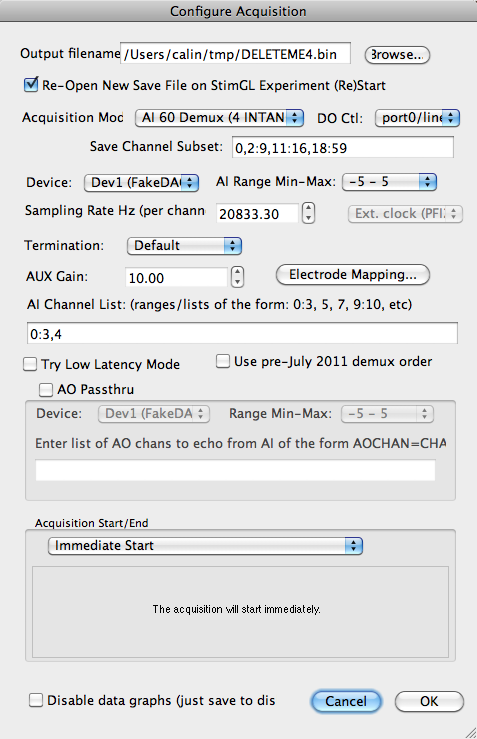
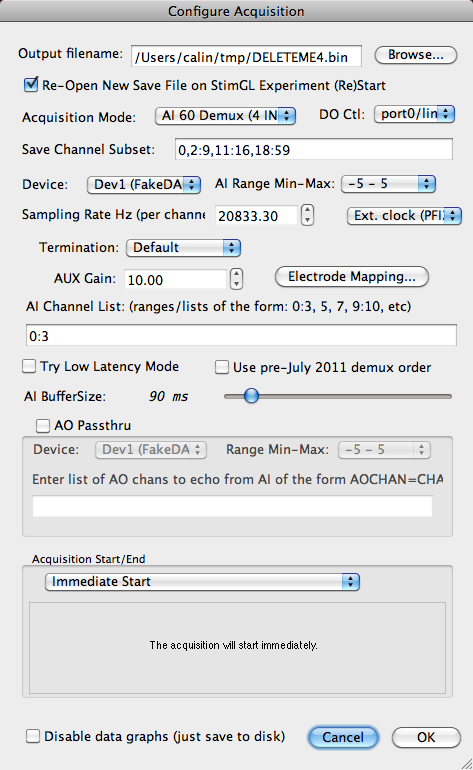
Updated documentation to include description of ai bufsize slider, updated default for aibufsize slider to 90ms

diff --git a/SpikeGL-help-manual.html b/SpikeGL-help-manual.html
@@ -216,6 +216,13 @@
 		   </font></blockquote>
         <p align="left">&nbsp;</p>
       </blockquote>
+      <p align="left"><U><strong>AI BufferSize</strong></U> </p>
+      <blockquote>
+        <p align="left">The AI buffer size directly affects the read buffer size used with the NI driver.  Smaller values lead to lower-latency data acquisitions (that is, more frequent reads from the board and thus faster screen updates of the graphs) but may run the risk of buffer overflows (depending on system performance), whereas larger values are safer for even the most taxed systems, but may lead to laggy graph updates.  The default value, 90ms is a good sized buffer for fast systems.  
+</p><p align="left">
+<b><i>Increase this value if you find you are getting buffer overrun errors from the NI driver and the acquisition fails.</b></i>  (Increase it to the minimum size that is stable on your system under load.)</p>
+        <p align="left">&nbsp;</p>
+      </blockquote>
       <p align="left"><U><strong>AO 	Passthru</strong></U> </p>
       <blockquote>
         <p align="left">If enabled, then pass-thru (echo) AI channels back out to AO 	(post-demux).  This requires that a board with an analog output 	subdevice be present on the system.  This option contains the 	following sub-options:</p>

diff --git a/ConfigureDialogController.cpp b/ConfigureDialogController.cpp
@@ -862,8 +862,8 @@ void ConfigureDialogController::paramsFromSettingsObject(DAQ::Params & p, const 
 	p.lowLatency = settings.value("lowLatency", false).toBool();
 	
 	p.doPreJuly2011IntanDemux = settings.value("doPreJuly2011IntanDemux", false).toBool();
-	
-	p.aiBufferSizeCS = settings.value("aiBufferSizeCentiSeconds", 25).toUInt();
+
+	p.aiBufferSizeCS = settings.value("aiBufferSizeCentiSeconds", DEF_AI_BUFFER_SIZE_CENTISECONDS).toUInt();
 	    
 }
 

diff --git a/SpikeGL.h b/SpikeGL.h
@@ -14,6 +14,7 @@
 #define DEFAULT_FAST_SETTLE_TIME_MS 15
 #define LOCK_TIMEOUT_MS 2000
 #define DEF_TASK_READ_FREQ_HZ_ 10
+#define DEF_AI_BUFFER_SIZE_CENTISECONDS 9
 #define DEF_TASK_READ_FREQ_HZ Util::getTaskReadFreqHz()
 #define TASK_WRITE_FREQ_HZ 10
 #define APPNAME "SpikeGL"

diff --git a/Version.h b/Version.h
@@ -1,7 +1,7 @@
 #ifndef Version_H
 #define Version_H
 
-#define VERSION 0x20110802
-#define VERSION_STR "SpikeGL v.20110802"
+#define VERSION 0x20110803
+#define VERSION_STR "SpikeGL v.20110803"
 
 #endif
